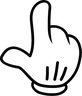
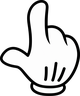
Use Tobias's redrawn glove, tilt it counter-clockwise, bring the idle hint back after 8 s

diff --git a/sketches/frost/index.html b/sketches/frost/index.html
@@ -15,7 +15,7 @@
     --blur-thick: 0.03;
     --milk-thick: 0;
     --thick: 0;
-    --bend: 8deg;
+    --bend: -12deg;
   }
 
   * { box-sizing: border-box; }
@@ -35,12 +35,12 @@
 
   /* ---- Cursor (desktop only) ----
      Without JS: the glove as a plain CSS cursor. With JS, html.glove hides the system cursor and
-     a glove element follows the pointer instead, so it can tilt. Hotspot = fingertip (22, 2). */
+     a glove element follows the pointer instead, so it can tilt. Hotspot = fingertip (21, 2). */
   @media (hover: hover) and (pointer: fine) {
     html {
-      cursor: url("../../public/img/cursor.png") 22 2, auto;
-      cursor: -webkit-image-set(url("../../public/img/cursor.png") 1x, url("../../public/img/cursor@2x.png") 2x) 22 2, auto;
-      cursor: image-set(url("../../public/img/cursor.png") 1x, url("../../public/img/cursor@2x.png") 2x) 22 2, auto;
+      cursor: url("../../public/img/cursor.png") 21 2, auto;
+      cursor: -webkit-image-set(url("../../public/img/cursor.png") 1x, url("../../public/img/cursor@2x.png") 2x) 21 2, auto;
+      cursor: image-set(url("../../public/img/cursor.png") 1x, url("../../public/img/cursor@2x.png") 2x) 21 2, auto;
     }
     a, button, summary, input, select, label { cursor: inherit; }
     html.glove, html.glove * { cursor: none; }
@@ -50,13 +50,13 @@
     position: fixed;
     left: 0;
     top: 0;
-    width: 41px;
+    width: 40px;
     height: 48px;
     pointer-events: none;
     z-index: 100;
     visibility: hidden;
     /* Tilts around the fingertip, so the click point never moves. */
-    transform-origin: 22px 2px;
+    transform-origin: 21px 2px;
     transition: rotate 180ms cubic-bezier(.3, .7, .4, 1);
   }
   .glove-cursor.visible { visibility: visible; }
@@ -199,7 +199,7 @@
 
     <div id="desktopControls">
       <h2>Idle hint (desktop)</h2>
-      <p class="note">Runs until the pointer first moves over the photo, then stops for good.</p>
+      <p class="note">Runs until the pointer first moves over the photo. Comes back once the pointer has been still for the idle time.</p>
       <label>Style
         <select data-key="hint">
           <option value="breathe">Breathe — the frost slowly thickens and thins</option>
@@ -212,9 +212,11 @@
         <input type="range" data-key="hintSize" min="0.03" max="0.4" step="0.01"></label>
       <label>Speed <output data-for="hintSpeed"></output>
         <input type="range" data-key="hintSpeed" min="0.2" max="3" step="0.1"></label>
+      <label>Comes back after idle <output data-for="hintIdle"></output>
+        <input type="range" data-key="hintIdle" min="2" max="30" step="1"></label>
 
       <h2>Cursor (desktop)</h2>
-      <p class="note">Tilts around the fingertip over the photo and over links.</p>
+      <p class="note">Tilts around the fingertip over the photo and over links. Negative = counter-clockwise.</p>
       <label>Bend <output data-for="bend"></output>
         <input type="range" data-key="bend" min="-30" max="30" step="1"></label>
     </div>
@@ -238,11 +240,11 @@
   // Tobias's tuned values (2026-09-28). Idle hint and cursor are desktop only.
   const defaults = {
     desktop: { blur: 0.03, milk: 0.4, grain: 0.25, brush: 0.035, soft: 0.7, trail: 0.8,
-               hint: 'breathe', hintStrength: 0.6, hintSpeed: 1, hintSize: 0.12, bend: 8 },
+               hint: 'breathe', hintStrength: 0.6, hintSpeed: 1, hintSize: 0.12, hintIdle: 8, bend: -12 },
     mobile:  { blur: 0.04, milk: 0.15, grain: 0.06, brush: 0.025, soft: 0.6, trail: 0.6 },
   };
   const presets = structuredClone(defaults);
-  const units = { blur: '× width', brush: '× width', trail: 's', hintSize: '× width', bend: '°' };
+  const units = { blur: '× width', brush: '× width', trail: 's', hintSize: '× width', hintIdle: 's', bend: '°' };
 
   const desktopQuery = matchMedia('(hover: hover) and (pointer: fine)');
   const reduceMotion = matchMedia('(prefers-reduced-motion: reduce)');
@@ -350,16 +352,20 @@
   });
 
   // ---- Idle hint (desktop) -----------------------------------------------------------------
-  // Shows that the photo is interactive until the visitor first moves over it; then it eases
-  // out and never returns. Both styles are exact loops: one full cycle every `period` seconds.
+  // Shows that the photo is interactive until the visitor first moves over it, then eases out.
+  // After that it returns only once the pointer has been still for `hintIdle` seconds, and any
+  // movement stops it again. Both styles are exact loops that restart from their quiet point.
   //   breathe: the thick frost layer fades in and out.
   //   drift:   one faint, soft clear spot traces a figure-eight.
   let discovered = false;
+  let lastActivity = performance.now();
+  addEventListener('pointermove', () => { lastActivity = performance.now(); }, { passive: true });
   let hintLevel = 0; // 0..1, eased toward 1 while the hint should run
   let hintClock = 0, hintPrev = performance.now();
   const hintWanted = () => {
     const s = current();
-    return 'hint' in s && s.hint !== 'off' && !discovered && !reduceMotion.matches;
+    if (!('hint' in s) || s.hint === 'off' || reduceMotion.matches) return false;
+    return !discovered || performance.now() - lastActivity > s.hintIdle * 1000;
   };
 
   function stepHint(now) {
@@ -367,7 +373,7 @@
     const dt = Math.min(0.05, (now - hintPrev) / 1000); hintPrev = now;
     hintLevel += ((hintWanted() ? 1 : 0) - hintLevel) * Math.min(1, dt * 3); // ~0.4 s ease
     if (hintLevel < 0.002) hintLevel = 0;
-    if (!hintLevel) { root.style.setProperty('--thick', 0); return null; }
+    if (!hintLevel) { root.style.setProperty('--thick', 0); hintClock = 0; return null; }
 
     hintClock += dt * (s.hintSpeed ?? 1);
     const phase = (2 * Math.PI * hintClock) / (s.hint === 'breathe' ? 6 : 16);
@@ -425,6 +431,7 @@
     }
 
     if (points.length || hintLevel > 0 || hintWanted()) requestDraw();
+    else if (discovered) scheduleIdleCheck();
   }
 
   // ---- Glove cursor (desktop) ------------------------------------------------------------
@@ -434,13 +441,23 @@
     const clickable = 'a[href], button, summary, select, input, label, #photo';
     addEventListener('pointermove', (e) => {
       if (e.pointerType !== 'mouse') return;
-      glove.style.translate = `${e.clientX - 22}px ${e.clientY - 2}px`;
+      glove.style.translate = `${e.clientX - 21}px ${e.clientY - 2}px`;
       glove.classList.add('visible');
       glove.classList.toggle('bent', !!e.target.closest?.(clickable));
     }, { passive: true });
     // Leaving the window: mouseout with no element to go to.
     document.addEventListener('mouseout', (e) => { if (!e.relatedTarget) glove.classList.remove('visible'); });
     addEventListener('blur', () => glove.classList.remove('visible'));
+  }
+
+  // While nothing animates, the draw loop sleeps; wake it when the idle time could run out.
+  let idleTimer = 0;
+  function scheduleIdleCheck() {
+    clearTimeout(idleTimer);
+    const s = current();
+    if (!('hint' in s)) return;
+    const wait = s.hintIdle * 1000 - (performance.now() - lastActivity) + 50;
+    idleTimer = setTimeout(requestDraw, Math.max(50, wait));
   }
 
   sharp.addEventListener('load', requestDraw);

diff --git a/DESIGN.md b/DESIGN.md
@@ -59,24 +59,23 @@ else uses the mobile values.
 **Idle hint (desktop only): breathe.** Until the visitor first moves over the photo, the frost
 slowly thickens and thins so they see it's alive. One breath every 6 s (`hintSpeed` 1), and at
 its thickest the blur and milkiness are 1.42× the base (`hintStrength` 0.6 → 1 + 0.7 × 0.6).
-Once the pointer has been over the photo, the hint eases out (~0.4 s) and doesn't return. Not
-on mobile, not with reduced motion.
+As soon as the pointer moves over the photo, the hint eases out (~0.4 s). It comes back once the
+pointer has been still for 8 s (`hintIdle`), starting again from thin, and any movement stops it
+again. Not on mobile, not with reduced motion.
 Implementation note: only the opacity of a second, static frost layer animates — animating the
 blur radius itself flickers.
 
 ## Cursor
 
 **Desktop only:** a white cartoon glove pointing up replaces the pointer on the whole page,
-links and buttons included. Files: `public/img/cursor.png` (41 × 48) and `cursor@2x.png`,
-hotspot at the fingertip (22, 2). Phones keep their normal touch behaviour.
+links and buttons included. Drawn by Tobias; source `assets/cursor-source.png`. Exports:
+`public/img/cursor.png` (40 × 48) and `cursor@2x.png`, hotspot at the fingertip (21, 2).
+Phones keep their normal touch behaviour.
 
-**Bend:** over the photo and over anything clickable, the glove tilts 8° clockwise around the
-fingertip (180 ms ease), and straightens again when it leaves; no transition with reduced
+**Bend:** over the photo and over anything clickable, the glove tilts 12° counter-clockwise
+around the fingertip (180 ms ease), and straightens again when it leaves; no transition with reduced
 motion. Because a CSS cursor can't animate, the glove is an element that follows the pointer;
 the plain CSS cursor stays as the fallback when JavaScript is off.
-
-**Open:** licence of the source clip-art (origin unknown). Keep it only if its use is cleared;
-otherwise redraw an original glove in the same spirit.
 
 ## Colour
 
@@ -95,7 +94,7 @@ For now they are plain, unstyled buttons; styling comes later.
 - E-Mail: mail@simi3000.com
 - Instagram: https://www.instagram.com/simi3.000/
 
-**Open:** button order (sketch shows E-Mail first).
+Order: E-Mail, then Instagram.
 
 ## Motion
 

diff --git a/README.md b/README.md
@@ -11,6 +11,7 @@ public/                  the website — the only folder that is deployed
   datenschutz/           Datenschutzerklärung
 scripts/check.py         pre-deploy checks
 sketches/                throwaway tuning pages (not deployed)
+assets/                  source files for what's in public/ (not deployed)
 AGENTS.md                rules for AI agents (CLAUDE.md imports it)
 DESIGN.md                visual source of truth
 CONTENT.md               what can be edited as content, and where
